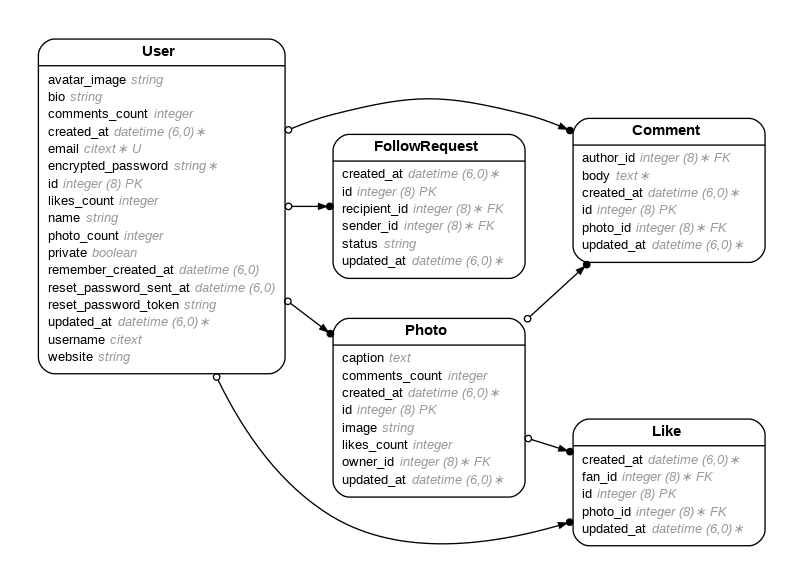
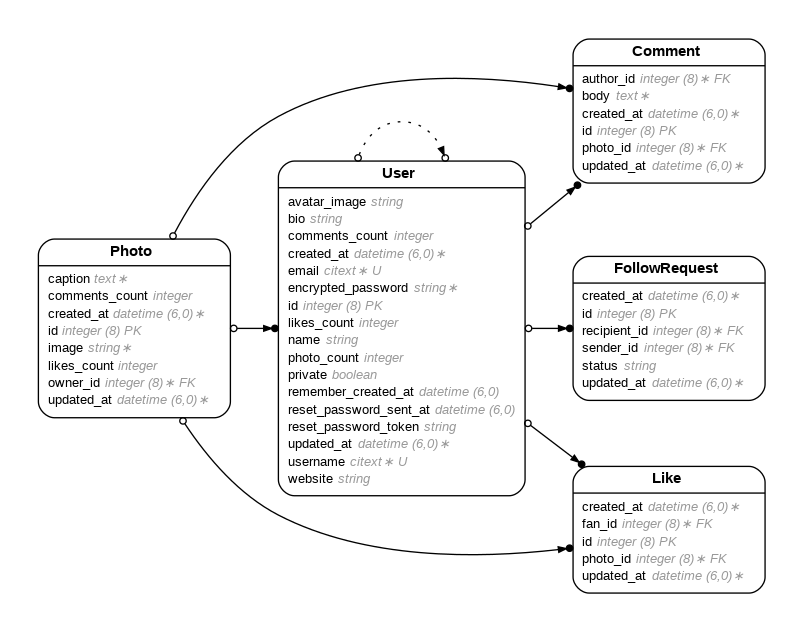
scope

diff --git a/spec/models/user_spec.rb b/spec/models/user_spec.rb
@@ -3,20 +3,19 @@
 # Table name: users
 #
 #  id                     :bigint           not null, primary key
-#  avatar_image           :string           default("avatar_placeholder.png")
+#  avatar_image           :string
 #  bio                    :string
 #  comments_count         :integer          default(0)
 #  email                  :citext           default(""), not null
 #  encrypted_password     :string           default(""), not null
-#  integer                :integer          default(0)
 #  likes_count            :integer          default(0)
 #  name                   :string
-#  photos_count           :integer          default(0)
+#  photo_count            :integer          default(0)
 #  private                :boolean          default(TRUE)
 #  remember_created_at    :datetime
 #  reset_password_sent_at :datetime
 #  reset_password_token   :string
-#  username               :citext           not null
+#  username               :citext
 #  website                :string
 #  created_at             :datetime         not null
 #  updated_at             :datetime         not null

diff --git a/db/schema.rb b/db/schema.rb
@@ -10,7 +10,7 @@
 #
 # It's strongly recommended that you check this file into your version control system.
 
-ActiveRecord::Schema[8.0].define(version: 2025_04_09_032653) do
+ActiveRecord::Schema[8.0].define(version: 2025_04_09_152729) do
   # These are extensions that must be enabled in order to support this database
   enable_extension "citext"
   enable_extension "pg_catalog.plpgsql"
@@ -65,7 +65,7 @@ ActiveRecord::Schema[8.0].define(version: 2025_04_09_032653) do
     t.string "avatar_image"
     t.string "bio"
     t.string "website"
-    t.boolean "private"
+    t.boolean "private", default: true
     t.integer "likes_count", default: 0
     t.integer "comments_count", default: 0
     t.datetime "created_at", null: false

diff --git a/spec/models/comment_spec.rb b/spec/models/comment_spec.rb
@@ -3,7 +3,7 @@
 # Table name: comments
 #
 #  id         :bigint           not null, primary key
-#  body       :text
+#  body       :text             not null
 #  created_at :datetime         not null
 #  updated_at :datetime         not null
 #  author_id  :bigint           not null
@@ -11,8 +11,7 @@
 #
 # Indexes
 #
-#  index_comments_on_author_id  (author_id)
-#  index_comments_on_photo_id   (photo_id)
+#  index_comments_on_photo_id  (photo_id)
 #
 # Foreign Keys
 #

diff --git a/app/models/user.rb b/app/models/user.rb
@@ -11,7 +11,7 @@
 #  likes_count            :integer          default(0)
 #  name                   :string
 #  photo_count            :integer          default(0)
-#  private                :boolean
+#  private                :boolean          default(TRUE)
 #  remember_created_at    :datetime
 #  reset_password_sent_at :datetime
 #  reset_password_token   :string

diff --git a/app/models/photo.rb b/app/models/photo.rb
@@ -27,4 +27,7 @@ class Photo < ApplicationRecord
 
   validates :caption, presence: true
   validates :image, presence: true
+
+  scope :past_week, -> {where(created_at: 1.week.ago...)}
+  scope :by_likes, -> {order(likes_count: :desc)}
 end

diff --git a/db/migrate/20250409152729_add_default_to_private.rb b/db/migrate/20250409152729_add_default_to_private.rb
@@ -1,0 +1,7 @@
+class AddDefaultToPrivate < ActiveRecord::Migration[8.0]
+  def change
+    change_column_default(
+      :users, :private, true
+    )
+  end
+end
